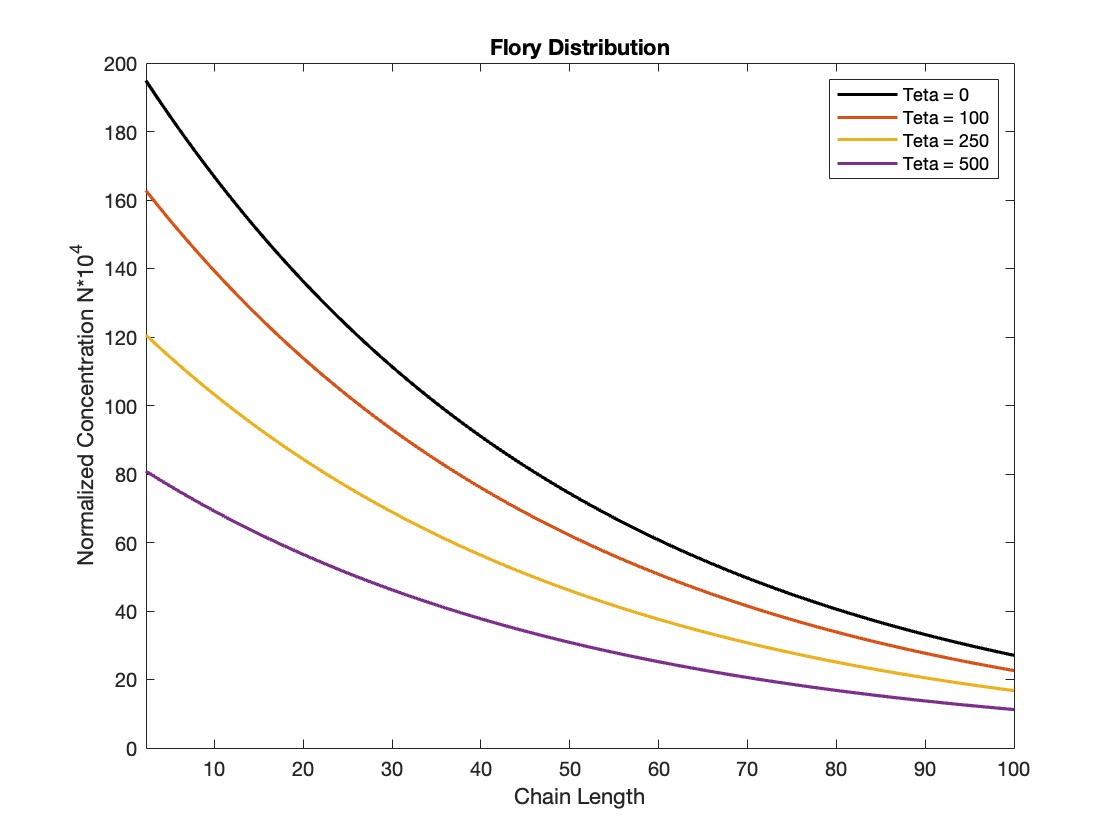
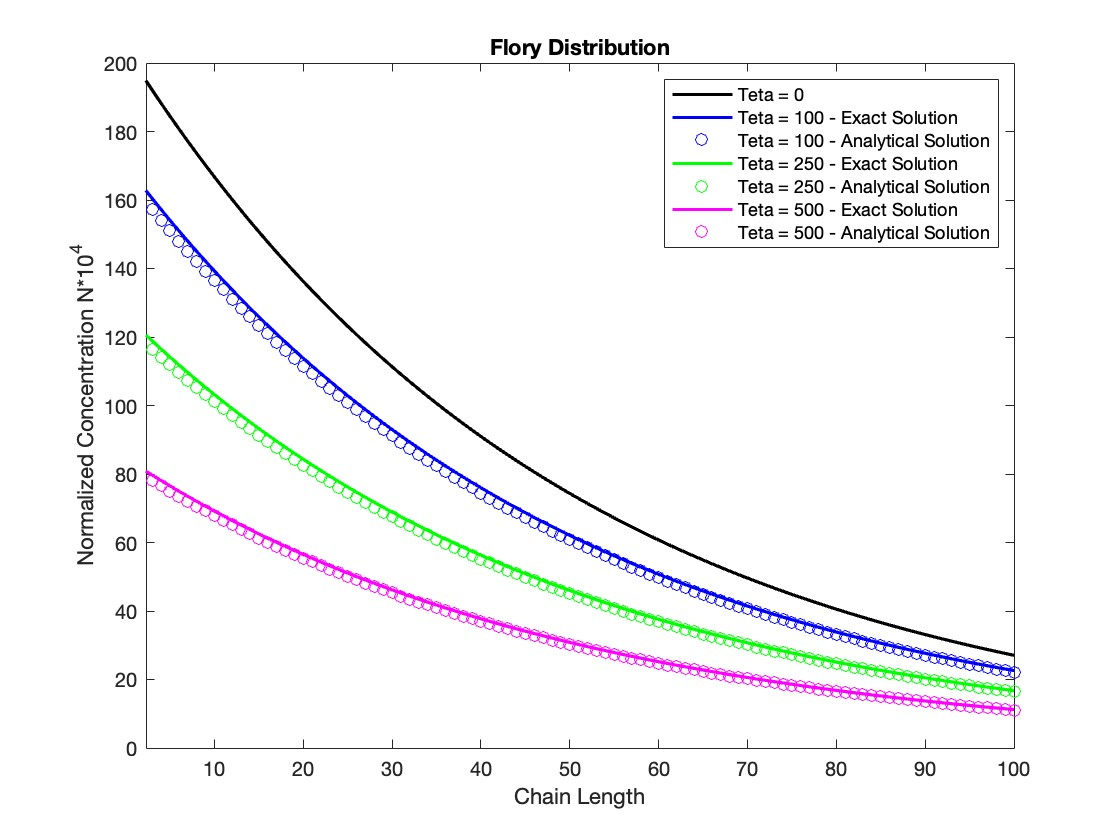
Add files via upload

diff --git a/PBE_FS.m b/PBE_FS.m
@@ -26,17 +26,53 @@ tetaspan = 0:1:500; %[s]
 
 [teta,P] = ode15s(@PBE, tetaspan, P0, options);
 
+%Analytical solution
+
+k=50; 
+
+teta_1=0.01:1:500;
+Pn_total=zeros(length(teta_1),200+1);
+for t=1:length(teta_1)
+ Pn_final=zeros(1,200+1);
+    for n=2:200 
+ 
+    Pn_it=0;
+    for i=n:200
+    Pn_old=Pn_it;
+        if i<n+k+1
+        Pn_in=P0(i)*(teta_1(t))^(i-n)/(factorial(i-n))*exp(-teta_1(t));
+        Pn_it=Pn_in+Pn_old;
+        else
+        Pn_in=P0(i)*1/(2*pi*teta_1(t))^0.5*exp(-(i-n-teta_1(t))^2/(2*teta_1(t)));
+        Pn_it=Pn_in+Pn_old;
+        end 
+    end
+ Pn_final(n)=Pn_it;
+end
+Pn_total(t,:)=Pn_final;
+end
+
+Pn_matrix=Pn_total(:,2:end);
+
 %% Plots
+
+figure(1)
 
 figure(1)
 
 plot(chain_length, P0.*1e4, 'LineWidth',1.6, 'Color','black')
 hold on
-plot(chain_length, P(10,:).*1e4, 'LineWidth',1.6)
-plot(chain_length, P(25,:).*1e4, 'LineWidth',1.6)
-plot(chain_length, P(45,:).*1e4, 'LineWidth',1.6)
+plot(chain_length, P(10,:).*1e4, 'LineWidth',1.6, 'Color','blue')
+plot(chain_length,Pn_matrix(10,:).*1e4,"o",  'Color','blue')
+
+plot(chain_length, P(25,:).*1e4, 'LineWidth',1.6, 'Color','green')
+plot(chain_length,Pn_matrix(25,:).*1e4,"o", 'Color', 'green')
+
+plot(chain_length, P(45,:).*1e4, 'LineWidth',1.6, 'Color','magenta')
+plot(chain_length,Pn_matrix(45,:).*1e4,"o", 'Color','magenta')
+
 axis([2.3 100 0 200])
-legend('Teta = 0', 'Teta = 100','Teta = 250','Teta = 500')
+legend('Teta = 0', 'Teta = 100 - Exact Solution','Teta = 100 - Analytical Solution','Teta = 250 - Exact Solution','Teta = 250 - Analytical Solution','Teta = 500 - Exact Solution', 'Teta = 500 - Analytical Solution')
 title('Flory Distribution')
 xlabel('Chain Length')
 ylabel('Normalized Concentration N*10^4')
